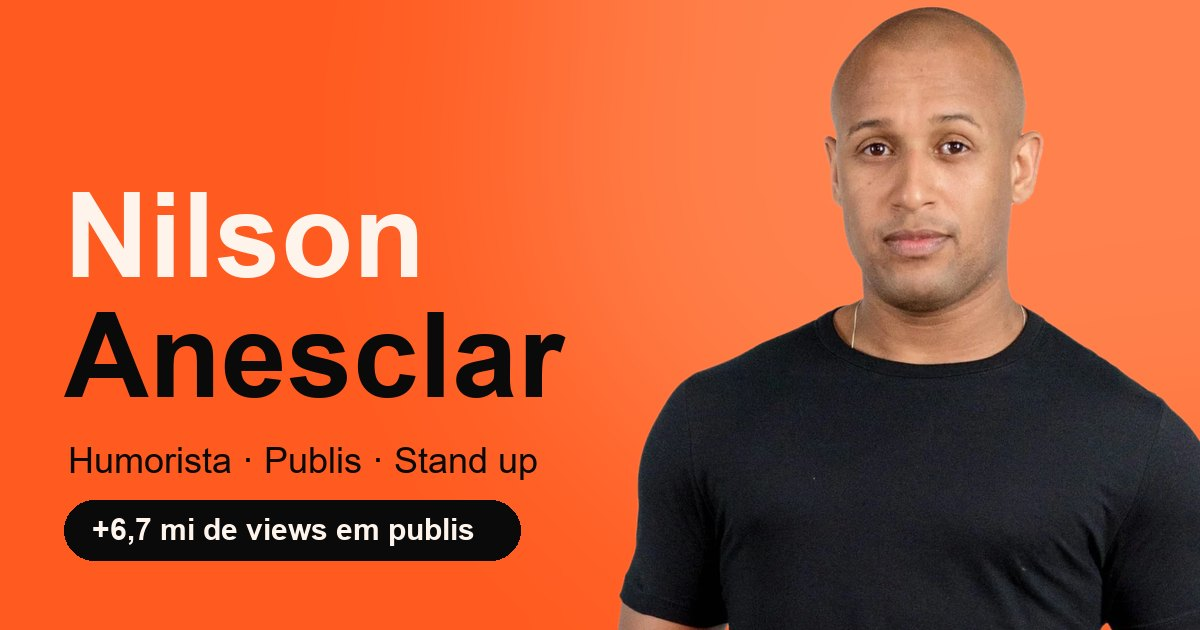
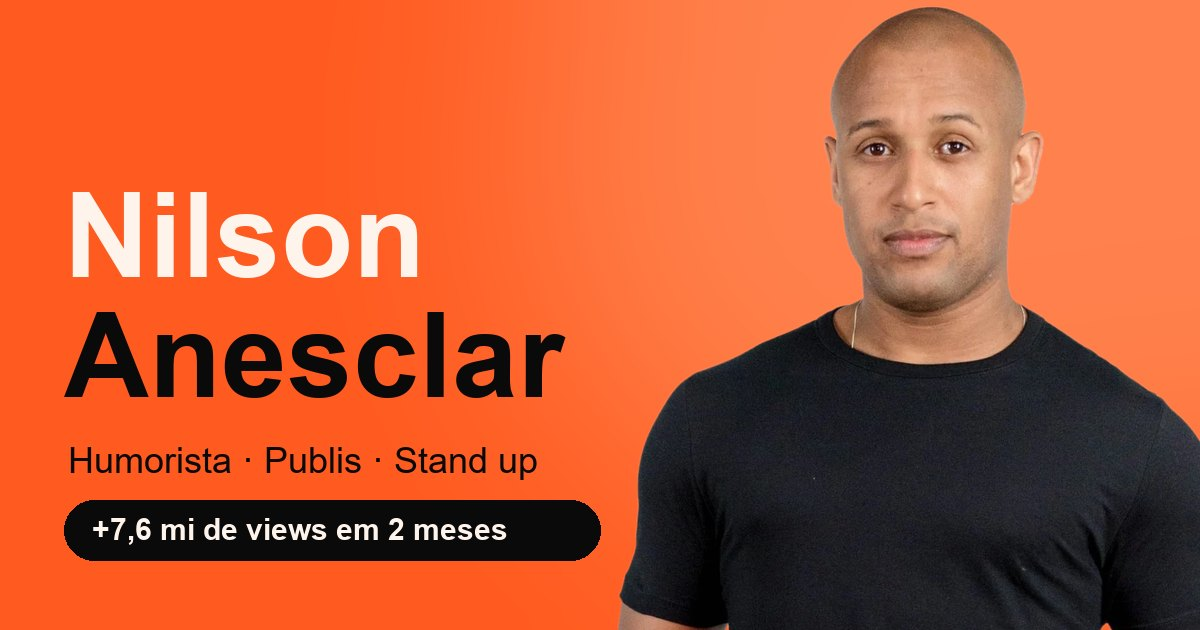
Botões de conversão refeitos e 7,6 mi de views em 2 meses
- Números: +7,6 mi de views nos últimos 2 meses (09/09 a 09/11/2026)
- Tira os selos TOP 1/2/3 das publis
- "Quero uma publi": cartão com prova social e botão real dentro
- "Garantir ingresso" em forma de bilhete (picote e canhoto)
- "Stand up no seu evento" vira cartão inteiro clicável
- Final: balão branco de conversa e botões "Pedir orçamento" e "E-mail"
- Imagem de compartilhamento atualizada

Changed region(s): [[0.3083, 0.7841, 0.5242, 0.9048], [0.0925, 0.8143, 0.1233, 0.8746]]

diff --git a/index.html b/index.html
@@ -4,7 +4,7 @@
 <meta charset="utf-8">
 <meta name="viewport" content="width=device-width, initial-scale=1, viewport-fit=cover">
 <title>Nilson Anesclar · Humorista</title>
-<meta name="description" content="Nilson Anesclar, humorista. Publis de humor para empresas com milhões de views, stand up comedy, YouTube, Instagram e TikTok. Contato comercial: San Produções Artísticas.">
+<meta name="description" content="Nilson Anesclar, humorista. Publis de humor para empresas com mais de 7 milhões de views em 2 meses, stand up comedy, YouTube, Instagram e TikTok. Contato comercial: San Produções Artísticas.">
 <meta name="theme-color" content="#FF5A1F">
 <meta property="og:title" content="Nilson Anesclar · Humorista">
 <meta property="og:description" content="Publis de humor que o povo assiste até o fim. Stand up comedy.">
@@ -106,19 +106,27 @@ em{font-family:var(--serif);font-style:italic;font-weight:400;letter-spacing:0}
 .numeros strong{display:block;white-space:nowrap;font:800 1.4rem/1 var(--sans);letter-spacing:-.03em;font-variant-numeric:tabular-nums}
 .numeros small{display:block;margin-top:4px;font:500 .76rem/1.2 var(--sans);color:var(--mut)}
 
-/* chamada principal */
-.cta{position:relative;display:block;margin-top:22px;border-radius:26px;background:linear-gradient(140deg, #FF6A2E 0%, #FF5A1F 50%, #F24C12 100%);color:var(--bg);
-  padding:16px 16px 18px 18px;box-shadow:0 22px 44px -26px rgba(255,90,31,.8);transition:transform .25s var(--e-q), box-shadow .25s}
-.cta:active{transform:scale(.98)}
-@media (hover:hover){.cta:hover{transform:translateY(-3px);box-shadow:0 28px 50px -24px rgba(255,90,31,.9)}.cta:hover .cta-seta{transform:translateX(3px)}}
-.cta-logos{display:flex;padding-left:6px}
-.cta-logos img{width:28px;height:28px;border-radius:50%;object-fit:cover;background:#fff;border:2px solid #FF5A1F;margin-left:-8px}
-.cta-prova{display:block;margin-top:8px;font:600 .78rem/1.2 var(--sans);color:rgba(10,10,11,.72)}
-.cta-linha{display:flex;align-items:center;gap:12px;margin-top:14px}
-.cta-linha>span:first-child{flex:1;min-width:0}
-.cta b{display:block;font:850 1.6rem/1 var(--sans);letter-spacing:-.04em}
-.cta-linha small{display:block;margin-top:6px;font:500 .92rem/1.3 var(--sans);color:rgba(10,10,11,.75)}
-.cta-seta{display:grid;place-items:center;width:54px;height:54px;border-radius:50%;background:var(--bg);color:var(--lar);flex:none;transition:transform .35s var(--e-out)}
+/* chamada principal: cartão laranja com prova social e um botão de verdade */
+@keyframes cutuca{0%,70%,100%{transform:translateX(0)}78%{transform:translateX(5px)}86%{transform:translateX(0)}92%{transform:translateX(3px)}}
+.cta{position:relative;display:block;margin-top:22px;padding:16px;border-radius:28px;background:linear-gradient(150deg, #FF7236 0%, #FF5A1F 48%, #EE4710 100%);color:var(--bg);
+  box-shadow:0 24px 48px -28px rgba(255,90,31,.9), inset 0 1px 0 rgba(255,255,255,.25);overflow:hidden;isolation:isolate;transition:transform .25s var(--e-q)}
+.cta::before{content:"";position:absolute;right:-60px;top:-80px;width:220px;height:220px;border-radius:50%;background:radial-gradient(circle, rgba(255,220,195,.55), rgba(255,220,195,0) 70%);z-index:-1}
+.cta:active{transform:scale(.985)}
+.cta-topo{display:flex;flex-direction:column;align-items:flex-start;gap:7px}
+.cta-logos{display:flex;padding-left:7px;flex:none}
+.cta-logos img{width:26px;height:26px;border-radius:50%;object-fit:cover;background:#fff;border:2px solid #FF6328;margin-left:-7px}
+.cta-prova{font:500 .76rem/1.2 var(--sans);color:rgba(10,10,11,.75)}
+.cta-prova b{font-weight:800;color:var(--bg)}
+.cta-titulo{display:block;margin-top:14px;font:850 1.5rem/1.02 var(--sans);letter-spacing:-.04em}
+.cta-sub{display:flex;align-items:center;gap:6px;margin-top:8px;font:600 .86rem/1.2 var(--sans);color:rgba(10,10,11,.78)}
+.cta-sub .ico{width:15px;height:15px}
+.cta-botao{display:flex;align-items:center;gap:10px;height:58px;margin-top:16px;padding:0 8px 0 18px;border-radius:18px;background:var(--bg);color:var(--creme);font:750 1.02rem/1 var(--sans);
+  box-shadow:0 10px 22px -12px rgba(0,0,0,.7)}
+.cta-botao .ico{width:19px;height:19px;color:var(--lar-2)}
+.cta-botao>span:not(.cta-seta){flex:1;white-space:nowrap}
+.cta-seta{display:grid;place-items:center;width:42px;height:42px;border-radius:12px;background:var(--lar);color:var(--bg);flex:none}
+.cta-seta svg{width:18px;height:18px;animation:cutuca 2.6s var(--e-q) infinite}
+@media (hover:hover){.cta:hover{transform:translateY(-3px)}.cta:hover .cta-botao{background:#000}}
 
 /* redes */
 .sociais{display:grid;grid-template-columns:minmax(0,1fr);gap:10px;margin-top:10px}
@@ -254,12 +262,21 @@ em{font-family:var(--serif);font-style:italic;font-weight:400;letter-spacing:0}
 .relogio b{display:block;height:1em;overflow:hidden;font:800 1.75rem/1 var(--sans);letter-spacing:-.03em;font-variant-numeric:tabular-nums}
 .relogio b span{display:block}
 .relogio small{display:block;margin-top:5px;font:500 .66rem/1 var(--sans);color:var(--dim);text-transform:uppercase;letter-spacing:.08em}
-.ingresso{position:relative;display:flex;align-items:center;justify-content:center;gap:10px;height:58px;margin-top:16px;border-radius:999px;background:var(--lar);color:var(--bg);
-  font:800 1.02rem/1 var(--sans);overflow:hidden;animation:pulso 1.8s ease-out infinite;transition:transform .2s var(--e-q)}
+.ingresso{position:relative;display:flex;align-items:stretch;height:68px;margin-top:16px;border-radius:16px;background:var(--lar);color:var(--bg);overflow:hidden;
+  -webkit-mask:radial-gradient(circle 11px at calc(100% - 58px) 0, #0000 97%, #000) top/100% 51% no-repeat, radial-gradient(circle 11px at calc(100% - 58px) 100%, #0000 97%, #000) bottom/100% 51% no-repeat;
+  mask:radial-gradient(circle 11px at calc(100% - 58px) 0, #0000 97%, #000) top/100% 51% no-repeat, radial-gradient(circle 11px at calc(100% - 58px) 100%, #0000 97%, #000) bottom/100% 51% no-repeat;
+  transition:transform .2s var(--e-q)}
 .ingresso:active{transform:scale(.98)}
-.ingresso .ico{width:20px;height:20px}
-.ingresso .brilho{width:30%}
-@media (hover:hover){.ingresso:hover{background:var(--lar-2)}}
+.ing-l{display:flex;align-items:center;gap:11px;flex:1;min-width:0;padding:0 14px}
+.ing-l>span{min-width:0}
+.ing-l .ico{width:23px;height:23px;flex:none}
+.ing-l b{display:block;font:850 1rem/1.1 var(--sans);letter-spacing:-.02em;white-space:nowrap}
+.ing-l small{display:block;margin-top:4px;font:600 .74rem/1 var(--sans);color:rgba(10,10,11,.7);white-space:nowrap;overflow:hidden;text-overflow:ellipsis}
+.ing-r{position:relative;display:grid;place-items:center;width:58px;flex:none;background:#E9470E}
+.ing-r::before{content:"";position:absolute;left:0;top:14px;bottom:14px;border-left:2px dashed rgba(10,10,11,.35)}
+.ing-r .ico{width:22px;height:22px}
+.ingresso .brilho{position:absolute;top:-10%;bottom:-10%;left:0;width:26%;z-index:1;pointer-events:none;background:linear-gradient(90deg, rgba(255,255,255,0), rgba(255,255,255,.45), rgba(255,255,255,0));transform:translateX(-120%) skewX(-18deg);animation:brilho 4.2s var(--e-q) infinite 1s}
+@media (hover:hover){.ingresso:hover{transform:translateY(-2px)}.ingresso:hover .ing-r{background:#D63F0A}}
 
 .serie{margin-top:12px;padding:18px;border-radius:30px;background:var(--s1);border:1px solid var(--line)}
 .serie h3{margin:0;font:850 1.6rem/1 var(--sans);letter-spacing:-.035em}
@@ -278,10 +295,18 @@ em{font-family:var(--serif);font-style:italic;font-weight:400;letter-spacing:0}
   transition:transform .3s var(--e-out)}
 .ep .play-c svg{width:18px;height:18px;margin-left:3px}
 @media (hover:hover){.ep:hover .play-c{transform:scale(1.12)}}
-.evento{display:flex;align-items:center;gap:12px;margin-top:12px;padding:12px 12px 12px 16px;border-radius:20px;background:var(--creme);color:var(--bg)}
-.evento p{flex:1;margin:0;font:700 .95rem/1.25 var(--sans);letter-spacing:-.01em}
-.evento p small{display:block;margin-top:2px;font:500 .78rem/1.3 var(--sans);color:rgba(10,10,11,.62);letter-spacing:0}
-.evento a{display:inline-flex;align-items:center;gap:6px;height:40px;padding:0 14px;border-radius:999px;background:var(--bg);color:var(--creme);font:700 .84rem/1 var(--sans);flex:none}
+.evento{display:flex;align-items:center;gap:14px;margin-top:12px;padding:14px;border-radius:24px;background:linear-gradient(135deg, rgba(255,90,31,.16), rgba(255,90,31,.04));
+  border:1px solid rgba(255,90,31,.45);transition:transform .25s var(--e-q), border-color .25s}
+.evento:active{transform:scale(.98)}
+@media (hover:hover){.evento:hover{transform:translateY(-3px);border-color:var(--lar)}}
+.ev-ico{display:grid;place-items:center;width:50px;height:50px;border-radius:16px;background:var(--lar);color:var(--bg);flex:none}
+.ev-ico .ico{width:24px;height:24px}
+.ev-txt{flex:1;min-width:0}
+.ev-txt b{display:block;font:750 .97rem/1.2 var(--sans);letter-spacing:-.01em;white-space:nowrap;overflow:hidden;text-overflow:ellipsis}
+.ev-txt small{display:block;margin-top:3px;font:400 .8rem/1.3 var(--sans);color:var(--mut);white-space:nowrap;overflow:hidden;text-overflow:ellipsis}
+.ev-bt{display:inline-flex;align-items:center;gap:6px;height:38px;padding:0 14px;border-radius:999px;background:var(--creme);color:var(--bg);font:750 .84rem/1 var(--sans);flex:none}
+.ev-bt .ico{width:14px;height:14px}
+@media (max-width:420px){.ev-bt{width:40px;height:40px;padding:0;justify-content:center;font-size:0;gap:0}.ev-bt .ico{width:17px;height:17px}}
 
 /* chamada final: a foto mora dentro do cartão */
 .final{position:relative;margin-top:76px;container-type:inline-size}
@@ -292,18 +317,21 @@ em{font-family:var(--serif);font-style:italic;font-weight:400;letter-spacing:0}
 .final h2{margin:0;font:900 clamp(2.3rem, 11cqi, 3.6rem)/.94 var(--sans);letter-spacing:-.045em}
 .final h2 em{font-size:1.07em}
 .final p{margin:12px 0 0;max-width:34ch;font:500 1rem/1.4 var(--sans);color:rgba(10,10,11,.78)}
-.final .acoes{display:flex;flex-wrap:wrap;align-items:center;gap:6px 16px;margin-top:20px}
+.final .acoes{display:grid;grid-template-columns:minmax(0,1fr);gap:8px;margin-top:20px}
+.final .acoes .btn{width:100%;white-space:nowrap}
 .btn{display:inline-flex;align-items:center;justify-content:center;gap:9px;height:54px;padding:0 22px;border-radius:999px;background:var(--bg);color:var(--creme);font:750 .98rem/1 var(--sans);
   transition:background-color .2s, transform .16s var(--e-q)}
 .btn:active{transform:scale(.97)}
 .btn .ico{width:18px;height:18px}
 @media (hover:hover){.btn:hover{background:#000}}
+.btn.linha{background:rgba(10,10,11,.08);color:var(--bg);box-shadow:inset 0 0 0 1.5px rgba(10,10,11,.5)}
+@media (hover:hover){.btn.linha:hover{background:rgba(10,10,11,.16)}}
 .link-mail{display:inline-flex;align-items:center;gap:6px;padding:10px 2px;font:650 .92rem/1 var(--sans);color:var(--bg);text-decoration:underline;text-underline-offset:4px;text-decoration-thickness:1.5px}
 .final-foto{position:relative;justify-self:center;width:min(76%, 300px);margin-top:18px}
 .final-foto img{width:100%;aspect-ratio:1}
-.balao{position:absolute;left:60%;top:17%;z-index:2;max-width:46%;padding:10px 13px;border-radius:18px 18px 18px 4px;background:var(--bg);color:var(--creme);
+.balao{position:absolute;left:60%;top:17%;z-index:2;max-width:46%;padding:10px 13px;border-radius:18px 18px 18px 4px;background:#fff;color:var(--bg);
   font:700 .84rem/1.2 var(--sans);box-shadow:0 14px 28px -12px rgba(0,0,0,.6);transform-origin:0 100%}
-.balao::before{content:"";position:absolute;left:-7px;bottom:0;width:14px;height:14px;background:var(--bg);clip-path:polygon(100% 0, 100% 100%, 0 100%)}
+.balao::before{content:"";position:absolute;left:-7px;bottom:0;width:14px;height:14px;background:#fff;clip-path:polygon(100% 0, 100% 100%, 0 100%)}
 .balao .txt-b{display:inline}
 .balao .txt-b::after{content:"";display:inline-block;width:2px;height:1em;margin-left:2px;vertical-align:-2px;background:var(--lar);animation:pisca 1s steps(1) infinite}
 .balao.pronto .txt-b::after{display:none}
@@ -311,7 +339,7 @@ em{font-family:var(--serif);font-style:italic;font-weight:400;letter-spacing:0}
 .digitando{display:none;gap:4px;align-items:center;height:1.2em}
 .balao.esperando .digitando{display:inline-flex}
 .balao.esperando .txt-b{display:none}
-.digitando i{width:6px;height:6px;border-radius:50%;background:var(--creme);opacity:.4;animation:ponto 1s ease-in-out infinite}
+.digitando i{width:6px;height:6px;border-radius:50%;background:#8a8a90;opacity:.4;animation:ponto 1s ease-in-out infinite}
 .digitando i:nth-child(2){animation-delay:.15s}.digitando i:nth-child(3){animation-delay:.3s}
 @keyframes ponto{0%,60%,100%{opacity:.35;transform:translateY(0)}30%{opacity:1;transform:translateY(-3px)}}
 @container (min-width:600px){
@@ -401,6 +429,7 @@ em{font-family:var(--serif);font-style:italic;font-weight:400;letter-spacing:0}
     <symbol id="i-chave" viewBox="0 0 24 24"><path d="M14.7 6.3a4 4 0 0 0-5.3 5.3L3.5 17.5 6.5 20.5l5.9-5.9a4 4 0 0 0 5.3-5.3l-2.6 2.6-2.8-.8-.8-2.8z" fill="none" stroke="currentColor" stroke-width="2" stroke-linejoin="round"/></symbol>
     <symbol id="i-sofa" viewBox="0 0 24 24"><path d="M5 11V8a3 3 0 0 1 3-3h8a3 3 0 0 1 3 3v3M3 13a2 2 0 0 1 4 0v2h10v-2a2 2 0 0 1 4 0v5H3zM5 18v2M19 18v2" fill="none" stroke="currentColor" stroke-width="2" stroke-linejoin="round" stroke-linecap="round"/></symbol>
     <symbol id="i-carne" viewBox="0 0 24 24"><path d="M15.5 3.5c3 0 5 2.4 5 5.3 0 4.6-5.8 9.7-10.8 9.7a4.4 4.4 0 0 1-4.2-4.4c0-3.6 3-5 4.6-7.2 1.4-1.9 2.8-3.4 5.4-3.4Z" fill="none" stroke="currentColor" stroke-width="2" stroke-linejoin="round"/><path d="M6.5 17.5 3.5 20.5" stroke="currentColor" stroke-width="2" stroke-linecap="round"/><circle cx="14.5" cy="9.5" r="1.8" fill="none" stroke="currentColor" stroke-width="2"/></symbol>
+    <symbol id="i-mic" viewBox="0 0 24 24"><rect x="8.5" y="3" width="7" height="11" rx="3.5" fill="none" stroke="currentColor" stroke-width="2"/><path d="M5.5 11a6.5 6.5 0 0 0 13 0M12 17.5V21M8.5 21h7" fill="none" stroke="currentColor" stroke-width="2" stroke-linecap="round"/></symbol>
     <symbol id="i-play" viewBox="0 0 24 24"><path d="M7 4.5v15l12.5-7.5z" fill="currentColor"/></symbol>
     <symbol id="i-mudo" viewBox="0 0 24 24"><path d="M4 9.5h3.5L12 5.5v13l-4.5-4H4z" fill="none" stroke="currentColor" stroke-width="2" stroke-linejoin="round"/><path d="m16 9.5 5 5m0-5-5 5" stroke="currentColor" stroke-width="2" stroke-linecap="round"/></symbol>
     <symbol id="i-som" viewBox="0 0 24 24"><path d="M4 9.5h3.5L12 5.5v13l-4.5-4H4z" fill="none" stroke="currentColor" stroke-width="2" stroke-linejoin="round"/><path d="M16 9a4.2 4.2 0 0 1 0 6M18.6 6.4a8 8 0 0 1 0 11.2" fill="none" stroke="currentColor" stroke-width="2" stroke-linecap="round"/></symbol>
@@ -435,14 +464,15 @@ em{font-family:var(--serif);font-style:italic;font-weight:400;letter-spacing:0}
     <p class="bio" id="bio">Faço <em>publis que o povo assiste até o fim</em> e stand up comedy em Petrópolis e região.</p>
     <ul class="numeros">
       <li><span class="ico-n"><svg class="ico"><use href="#i-pessoas"/></svg></span><span><strong><span id="cont">138</span> mil</strong><small>seguidores no Instagram</small></span></li>
-      <li><span class="ico-n"><svg class="ico"><use href="#i-olho"/></svg></span><span><strong>+<span id="contViews">6,7</span> mi</strong><small>views nas publis em destaque</small></span></li>
+      <li><span class="ico-n"><svg class="ico"><use href="#i-olho"/></svg></span><span><strong>+<span id="contViews">7,6</span> mi</strong><small>views nos últimos 2 meses</small></span></li>
     </ul>
   </section>
 
   <a class="cta" data-contato="publi" href="https://ig.me/m/nilson_anesclarjr" target="_blank" rel="noopener">
-    <span class="cta-logos" aria-hidden="true"><img src="img/logos/hyundai.webp" alt="" width="240" height="240"><img src="img/logos/megabeef.webp" alt="" width="240" height="240"><img src="img/logos/viverbem.webp" alt="" width="240" height="240"><img src="img/logos/finafauna.webp" alt="" width="240" height="240"><img src="img/logos/eletromoveis.webp" alt="" width="240" height="240"><img src="img/logos/lutti.webp" alt="" width="240" height="240"><img src="img/logos/antenor.webp" alt="" width="240" height="240"><img src="img/logos/nilmar.webp" alt="" width="240" height="240"><img src="img/logos/surikata.webp" alt="" width="240" height="240"><img src="img/logos/serralink.webp" alt="" width="240" height="240"><img src="img/logos/joha.webp" alt="" width="240" height="240"></span>
-    <span class="cta-prova">11 marcas da região já anunciaram com o Nilson</span>
-    <span class="cta-linha"><span><b>Quero uma publi</b><small>Sua marca no próximo vídeo dele</small></span><span class="cta-seta"><svg class="ico"><use href="#i-seta"/></svg></span></span>
+    <span class="cta-topo"><span class="cta-logos" aria-hidden="true"><img src="img/logos/hyundai.webp" alt="" width="240" height="240"><img src="img/logos/megabeef.webp" alt="" width="240" height="240"><img src="img/logos/viverbem.webp" alt="" width="240" height="240"><img src="img/logos/finafauna.webp" alt="" width="240" height="240"><img src="img/logos/eletromoveis.webp" alt="" width="240" height="240"><img src="img/logos/lutti.webp" alt="" width="240" height="240"><img src="img/logos/antenor.webp" alt="" width="240" height="240"><img src="img/logos/nilmar.webp" alt="" width="240" height="240"><img src="img/logos/surikata.webp" alt="" width="240" height="240"><img src="img/logos/serralink.webp" alt="" width="240" height="240"><img src="img/logos/joha.webp" alt="" width="240" height="240"></span><span class="cta-prova"><b>11 marcas</b> da região já anunciaram</span></span>
+    <b class="cta-titulo">Coloque sua marca num vídeo do Nilson</b>
+    <span class="cta-sub"><svg class="ico"><use href="#i-olho"/></svg>+7 milhões de views nos últimos 2 meses</span>
+    <span class="cta-botao"><svg class="ico"><use href="#i-dm"/></svg><span>Quero uma publi</span><span class="cta-seta"><svg><use href="#i-seta"/></svg></span></span>
   </a>
 
   <div class="sociais">
@@ -493,7 +523,7 @@ em{font-family:var(--serif);font-style:italic;font-weight:400;letter-spacing:0}
 
   <section class="secao" aria-labelledby="t-publis" id="publis">
     <h2 class="titulo" id="t-publis"><span class="w"><span>Publis</span></span> <span class="w"><span>que</span></span> <span class="w"><span><em>viralizaram</em></span></span></h2>
-    <div class="placar"><strong id="placar">6,7</strong><span><b>milhões de views</b>nas 10 publis em destaque</span></div>
+    <div class="placar"><strong id="placar">7,6</strong><span><b>milhões de views</b>nos últimos 2 meses</span></div>
     <ul class="feed" id="feed">
       <li><button class="post" type="button" data-video="img/p-oficina1.mp4" data-poster="img/p-oficina1.jpg" data-logo="" data-ico="i-chave" data-marca="Oficina mecânica" data-nicho="2,3 milhões de views" data-post="https://www.instagram.com/p/DeZLsHwRKi4/" data-gancho="Quando você julga só pela aparência" data-views="2,3 mi" data-top="1"></button></li>
       <li><button class="post" type="button" data-video="img/p-oficina2.mp4" data-poster="img/p-oficina2.jpg" data-logo="" data-ico="i-chave" data-marca="Oficina mecânica" data-nicho="1,8 milhão de views" data-post="https://www.instagram.com/p/DdcWhRaByDF/" data-gancho="Sexta, 17h29. O cliente:" data-views="1,8 mi" data-top="2"></button></li>
@@ -531,7 +561,9 @@ em{font-family:var(--serif);font-style:italic;font-weight:400;letter-spacing:0}
         <div><b data-u="m"><span>00</span></b><small>min</small></div>
         <div><b data-u="s"><span>00</span></b><small>seg</small></div>
       </div>
-      <a class="ingresso pulsa" href="https://www.instagram.com/p/DfW89a0xClG/" target="_blank" rel="noopener"><i class="brilho"></i><svg class="ico"><use href="#i-ticket"/></svg>Garantir meu ingresso</a>
+      <a class="ingresso" href="https://www.instagram.com/p/DfW89a0xClG/" target="_blank" rel="noopener"><i class="brilho"></i>
+        <span class="ing-l"><svg class="ico"><use href="#i-ticket"/></svg><span><b>Garantir ingresso</b><small>Sáb, 5/12 · 20h30 · Itaipava</small></span></span>
+        <span class="ing-r"><svg class="ico"><use href="#i-seta"/></svg></span></a>
     </article>
 
     <div class="serie">
@@ -547,20 +579,21 @@ em{font-family:var(--serif);font-style:italic;font-weight:400;letter-spacing:0}
       </div>
     </div>
 
-    <div class="evento">
-      <p>Stand up no seu evento<small>Festa de empresa e confraternização</small></p>
-      <a data-contato="show" href="https://ig.me/m/nilson_anesclarjr" target="_blank" rel="noopener">Chamar <svg class="ico" style="width:16px;height:16px"><use href="#i-seta"/></svg></a>
-    </div>
+    <a class="evento" data-contato="show" href="https://ig.me/m/nilson_anesclarjr" target="_blank" rel="noopener">
+      <span class="ev-ico"><svg class="ico"><use href="#i-mic"/></svg></span>
+      <span class="ev-txt"><b>Stand up no seu evento</b><small>Festa de empresa, confraternização, aniversário</small></span>
+      <span class="ev-bt">Chamar <svg class="ico"><use href="#i-seta"/></svg></span>
+    </a>
   </section>
 
   <section class="final" id="final" aria-labelledby="t-final">
     <div class="final-card">
       <div class="final-txt">
         <h2 id="t-final">Sua marca no próximo <em>vídeo do Nilson.</em></h2>
-        <p>Mais de 6 milhões de pessoas assistiram às publis em destaque. A próxima pode ser a sua.</p>
+        <p>Foram mais de 7 milhões de views nos últimos 2 meses. A próxima publi pode ser a da sua marca.</p>
         <div class="acoes">
           <a class="btn" data-contato="publi" href="https://ig.me/m/nilson_anesclarjr" target="_blank" rel="noopener"><svg class="ico"><use href="#i-dm"/></svg>Pedir orçamento</a>
-          <a class="link-mail" href="mailto:sanproducoesartisticas@gmail.com?subject=Quero%20uma%20publi%20com%20o%20Nilson">ou mande um e-mail</a>
+          <a class="btn linha" href="mailto:sanproducoesartisticas@gmail.com?subject=Quero%20uma%20publi%20com%20o%20Nilson" aria-label="Mandar e-mail"><svg class="ico"><use href="#i-mail"/></svg>E-mail</a>
         </div>
       </div>
       <div class="final-foto" id="finalFoto" aria-hidden="true"><img src="img/nilson.webp" alt="" width="900" height="900" loading="lazy"><span class="balao esperando" id="balao"><span class="digitando"><i></i><i></i><i></i></span><span class="txt-b" id="balaoTxt"></span></span></div>

diff --git a/js/site.js b/js/site.js
@@ -267,7 +267,7 @@ function abertura() {
     ], { duracao: 620, atraso: t, curva: 'p4' }), 0.97);
     cascata($$('.numeros li'), 1000, 90, (li, t) => anima(li, chega('translateY(' + 18 * K + 'px)', 'translateY(0)'), { duracao: 640, atraso: t, curva: 'p4' }));
     contaAte($('#cont'), 138, 0, 1300, 1050);
-    contaAte($('#contViews'), 6.7, 1, 1400, 1150);
+    contaAte($('#contViews'), 7.6, 1, 1400, 1150);
     anima($('.cta'), chega('translateY(' + 30 * K + 'px) scale(.95)', 'translateY(0) scale(1)'), { duracao: 820, atraso: 1150, curva: 'expo' });
     cascata($$('.cta-logos img'), 1450, 70, (img, t) => anima(img, chega('translateX(-10px) scale(.4)', 'translateX(0) scale(1)'), { duracao: 520, atraso: t, curva: 'mola' }));
     anima($('.igc'), chega('translateY(' + 30 * K + 'px)', 'translateY(0)'), { duracao: 760, atraso: 1300, curva: 'expo' });
@@ -424,7 +424,7 @@ class Feed {
         });
         const placar = talvez('#placar');
         if (placar)
-            umaVez(placar, () => contaAte(placar, 6.7, 1, 1600, 100));
+            umaVez(placar, () => contaAte(placar, 7.6, 1, 1600, 100));
     }
     montar(el, v) {
         el.setAttribute('aria-label', 'Assistir: ' + v.gancho + ' · ' + v.marca + ' · ' + v.views + ' de views');
@@ -435,7 +435,6 @@ class Feed {
             '<img class="cap" src="' + esc(v.poster) + '" alt="" width="540" height="960" loading="lazy">' +
                 '<video muted playsinline loop preload="none" src="' + esc(v.video) + '"></video>' +
                 '<span class="views"><svg><use href="#i-play"/></svg>' + esc(v.views) + '</span>' +
-                (v.top ? '<span class="top">TOP ' + esc(v.top) + '</span>' : '') +
                 '<span class="post-base"><q>' + esc(v.gancho) + '</q><span class="quem">' + quem + '<small>' + esc(v.marca) + '</small></span></span>';
         el.addEventListener('click', () => player.abrir(v, this.dados));
     }

diff --git a/src/site.ts b/src/site.ts
@@ -295,7 +295,7 @@ function abertura(): void {
   ], { duracao: 620, atraso: t, curva: 'p4' }), 0.97);
   cascata($$('.numeros li'), 1000, 90, (li, t) => anima(li, chega('translateY(' + 18 * K + 'px)', 'translateY(0)'), { duracao: 640, atraso: t, curva: 'p4' }));
   contaAte($('#cont'), 138, 0, 1300, 1050);
-  contaAte($('#contViews'), 6.7, 1, 1400, 1150);
+  contaAte($('#contViews'), 7.6, 1, 1400, 1150);
 
   anima($('.cta'), chega('translateY(' + 30 * K + 'px) scale(.95)', 'translateY(0) scale(1)'), { duracao: 820, atraso: 1150, curva: 'expo' });
   cascata($$('.cta-logos img'), 1450, 70, (img, t) => anima(img, chega('translateX(-10px) scale(.4)', 'translateX(0) scale(1)'), { duracao: 520, atraso: t, curva: 'mola' }));
@@ -466,7 +466,7 @@ class Feed {
       else lista.scrollIntoView({ behavior: 'smooth', block: 'start' });
     });
     const placar = talvez('#placar');
-    if (placar) umaVez(placar, () => contaAte(placar, 6.7, 1, 1600, 100));
+    if (placar) umaVez(placar, () => contaAte(placar, 7.6, 1, 1600, 100));
   }
 
   private montar(el: HTMLButtonElement, v: Video): void {
@@ -478,7 +478,6 @@ class Feed {
       '<img class="cap" src="' + esc(v.poster) + '" alt="" width="540" height="960" loading="lazy">' +
       '<video muted playsinline loop preload="none" src="' + esc(v.video) + '"></video>' +
       '<span class="views"><svg><use href="#i-play"/></svg>' + esc(v.views) + '</span>' +
-      (v.top ? '<span class="top">TOP ' + esc(v.top) + '</span>' : '') +
       '<span class="post-base"><q>' + esc(v.gancho) + '</q><span class="quem">' + quem + '<small>' + esc(v.marca) + '</small></span></span>';
     el.addEventListener('click', () => player.abrir(v, this.dados));
   }
